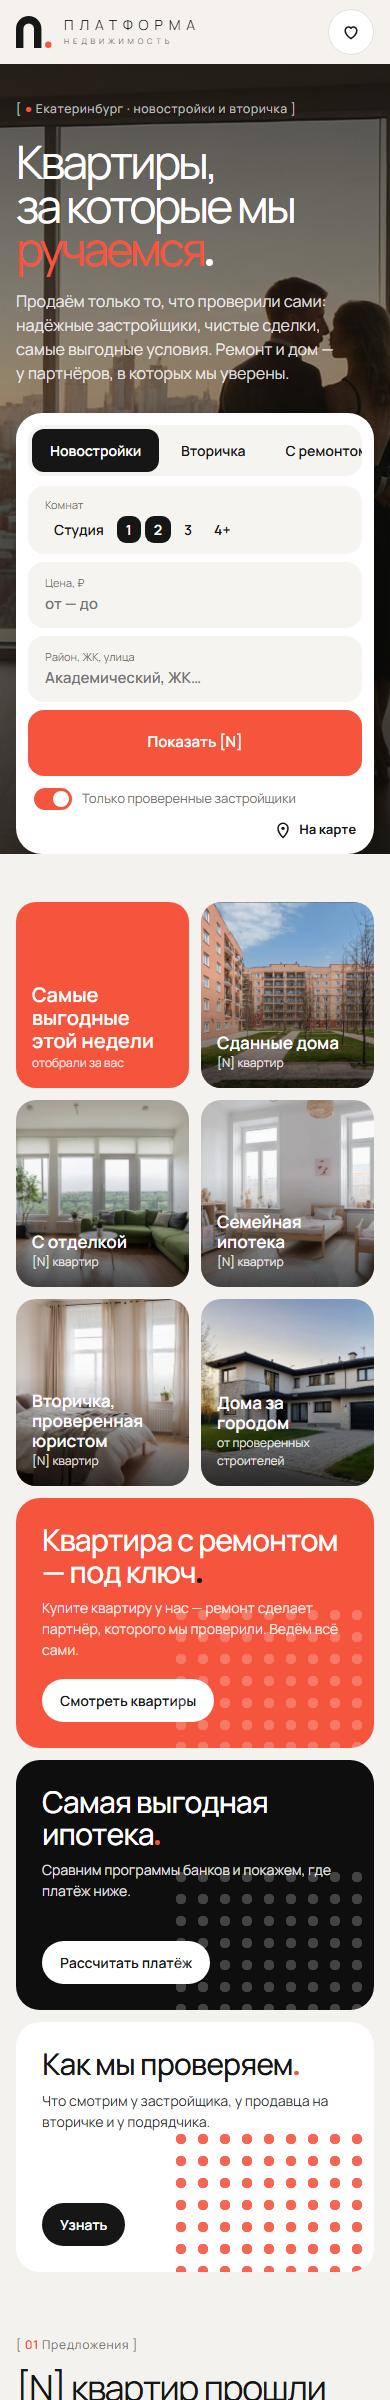
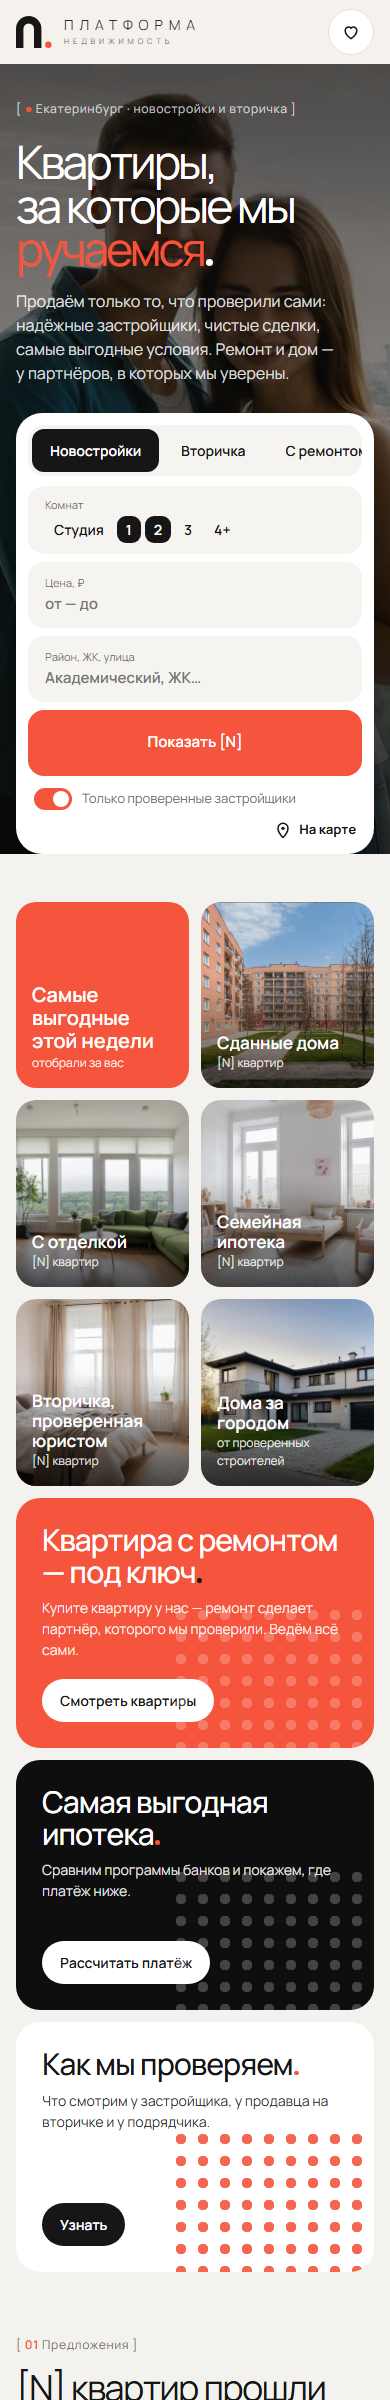
Новое фото первого экрана: пара с ключами, повседневно и днём

Changed region(s): [[0.0, 0.0, 1.0, 0.375]]

diff --git a/08_Сайт_пример/index.html b/08_Сайт_пример/index.html
@@ -38,7 +38,7 @@ nav.main a.on::after{content:'';display:inline-block;width:5px;height:5px;border
 
 /* hero — фото во весь экран */
 .hero{position:relative;min-height:clamp(560px,calc(100vh - 76px),1400px);min-height:clamp(560px,calc(100svh - 76px),1400px);display:flex;color:#fff;overflow:hidden;background:#2a211c}
-.hbg{position:absolute;inset:0;background:url(photo/hero_window.jpg) 64% center/cover;transform:scale(1.02)}
+.hbg{position:absolute;inset:0;background:url(photo/hero_keys.jpg) 0% center/cover;transform:scale(1.02)}
 .hbg::after{content:'';position:absolute;inset:0;background:linear-gradient(90deg,#0d0a08e6 0%,#0d0a08a8 30%,#0d0a0833 58%,#0000 74%),linear-gradient(0deg,#000a 0%,#0000 38%)}
 .hin{position:relative;z-index:1;width:100%;display:flex;flex-direction:column;justify-content:space-between;gap:48px;padding-top:clamp(40px,8vh,130px);padding-bottom:clamp(24px,4.5vh,64px)}
 .hl{max-width:min(1100px,58vw)}
@@ -52,6 +52,7 @@ nav.main a.on::after{content:'';display:inline-block;width:5px;height:5px;border
 .hcap{position:absolute;right:clamp(16px,3.4vw,110px);bottom:clamp(24px,4.5vh,64px);z-index:1;color:#fff;font-size:13px;opacity:.85}
 .sbox{position:relative;z-index:3;width:min(1240px,calc(100% - clamp(290px,18vw,380px) - 24px));background:#fff;color:var(--ink);border-radius:26px;padding:12px;box-shadow:0 30px 70px #00000040}
 .after{padding:clamp(20px,2vw,40px) 0 0}
+@media(max-width:1600px){.chipv{display:none}.hero .sbox{width:min(1240px,100%)}}
 .tabs{display:flex;gap:4px;padding:4px;background:var(--soft);border-radius:16px;width:max-content;max-width:100%;overflow:auto}
 .tabs button{border:0;background:transparent;border-radius:12px;padding:11px 18px;font-weight:600;font-size:14px;white-space:nowrap}
 .tabs button[aria-selected=true]{background:var(--ink);color:#fff}
@@ -223,7 +224,7 @@ footer h4{color:var(--milk);font-size:14px;margin:0 0 12px}footer a{display:bloc
 @media(max-width:800px){
  .w{padding:0 16px}.hero h1{font-size:46px}.hero .sub{font-size:16px;margin-top:18px}h2.t{font-size:36px}.mtext{font-size:28px}
  .hd{gap:12px;height:64px}.tel,.hicon.hide-m{display:none}
- .hero{min-height:0}.hbg{background-position:70% center}.hbg::after{background:linear-gradient(180deg,#0d0a08b3 0%,#0d0a0866 45%,#0d0a08cc 100%)}.hin{padding-top:36px;gap:28px}
+ .hero{min-height:0}.hbg{background-position:64% center}.hbg::after{background:linear-gradient(180deg,#0d0a08b3 0%,#0d0a0866 45%,#0d0a08cc 100%)}.hin{padding-top:36px;gap:28px}
  .sf{grid-template-columns:minmax(0,1fr)}.go{width:100%}
  .cats{grid-template-columns:repeat(2,minmax(0,1fr))}.promo,.mgrid,.pgrid,.calc,.rgrid,.lgrid,.prom,.fgr{grid-template-columns:minmax(0,1fr)}.stats{grid-template-columns:repeat(2,minmax(0,1fr))}
  .card{grid-template-columns:minmax(0,1fr)}.rcol{border-left:0;border-top:1px solid var(--line);padding:12px 0 0}
@@ -258,7 +259,7 @@ footer h4{color:var(--milk);font-size:14px;margin:0 0 12px}footer a{display:bloc
 
 <main>
 <section class="hero" id="search">
-  <div class="hbg" role="img" aria-label="Пара у панорамного окна новой квартиры, Екатеринбург на закате"></div>
+  <div class="hbg" role="img" aria-label="Молодая пара с ключами от новой квартиры у панорамного окна"></div>
   <div class="chipv"><h3><i></i>ЖК [НАЗВАНИЕ] — проверен</h3>
     <ul><li><svg><use href="#check"/></svg>Разрешение на строительство</li><li><svg><use href="#check"/></svg>Проектная декларация, эскроу</li><li><svg><use href="#check"/></svg>Прошлые дома сданы в срок</li><li><svg><use href="#check"/></svg>Нет банкротных дел</li></ul></div>
   <div class="w hin">
